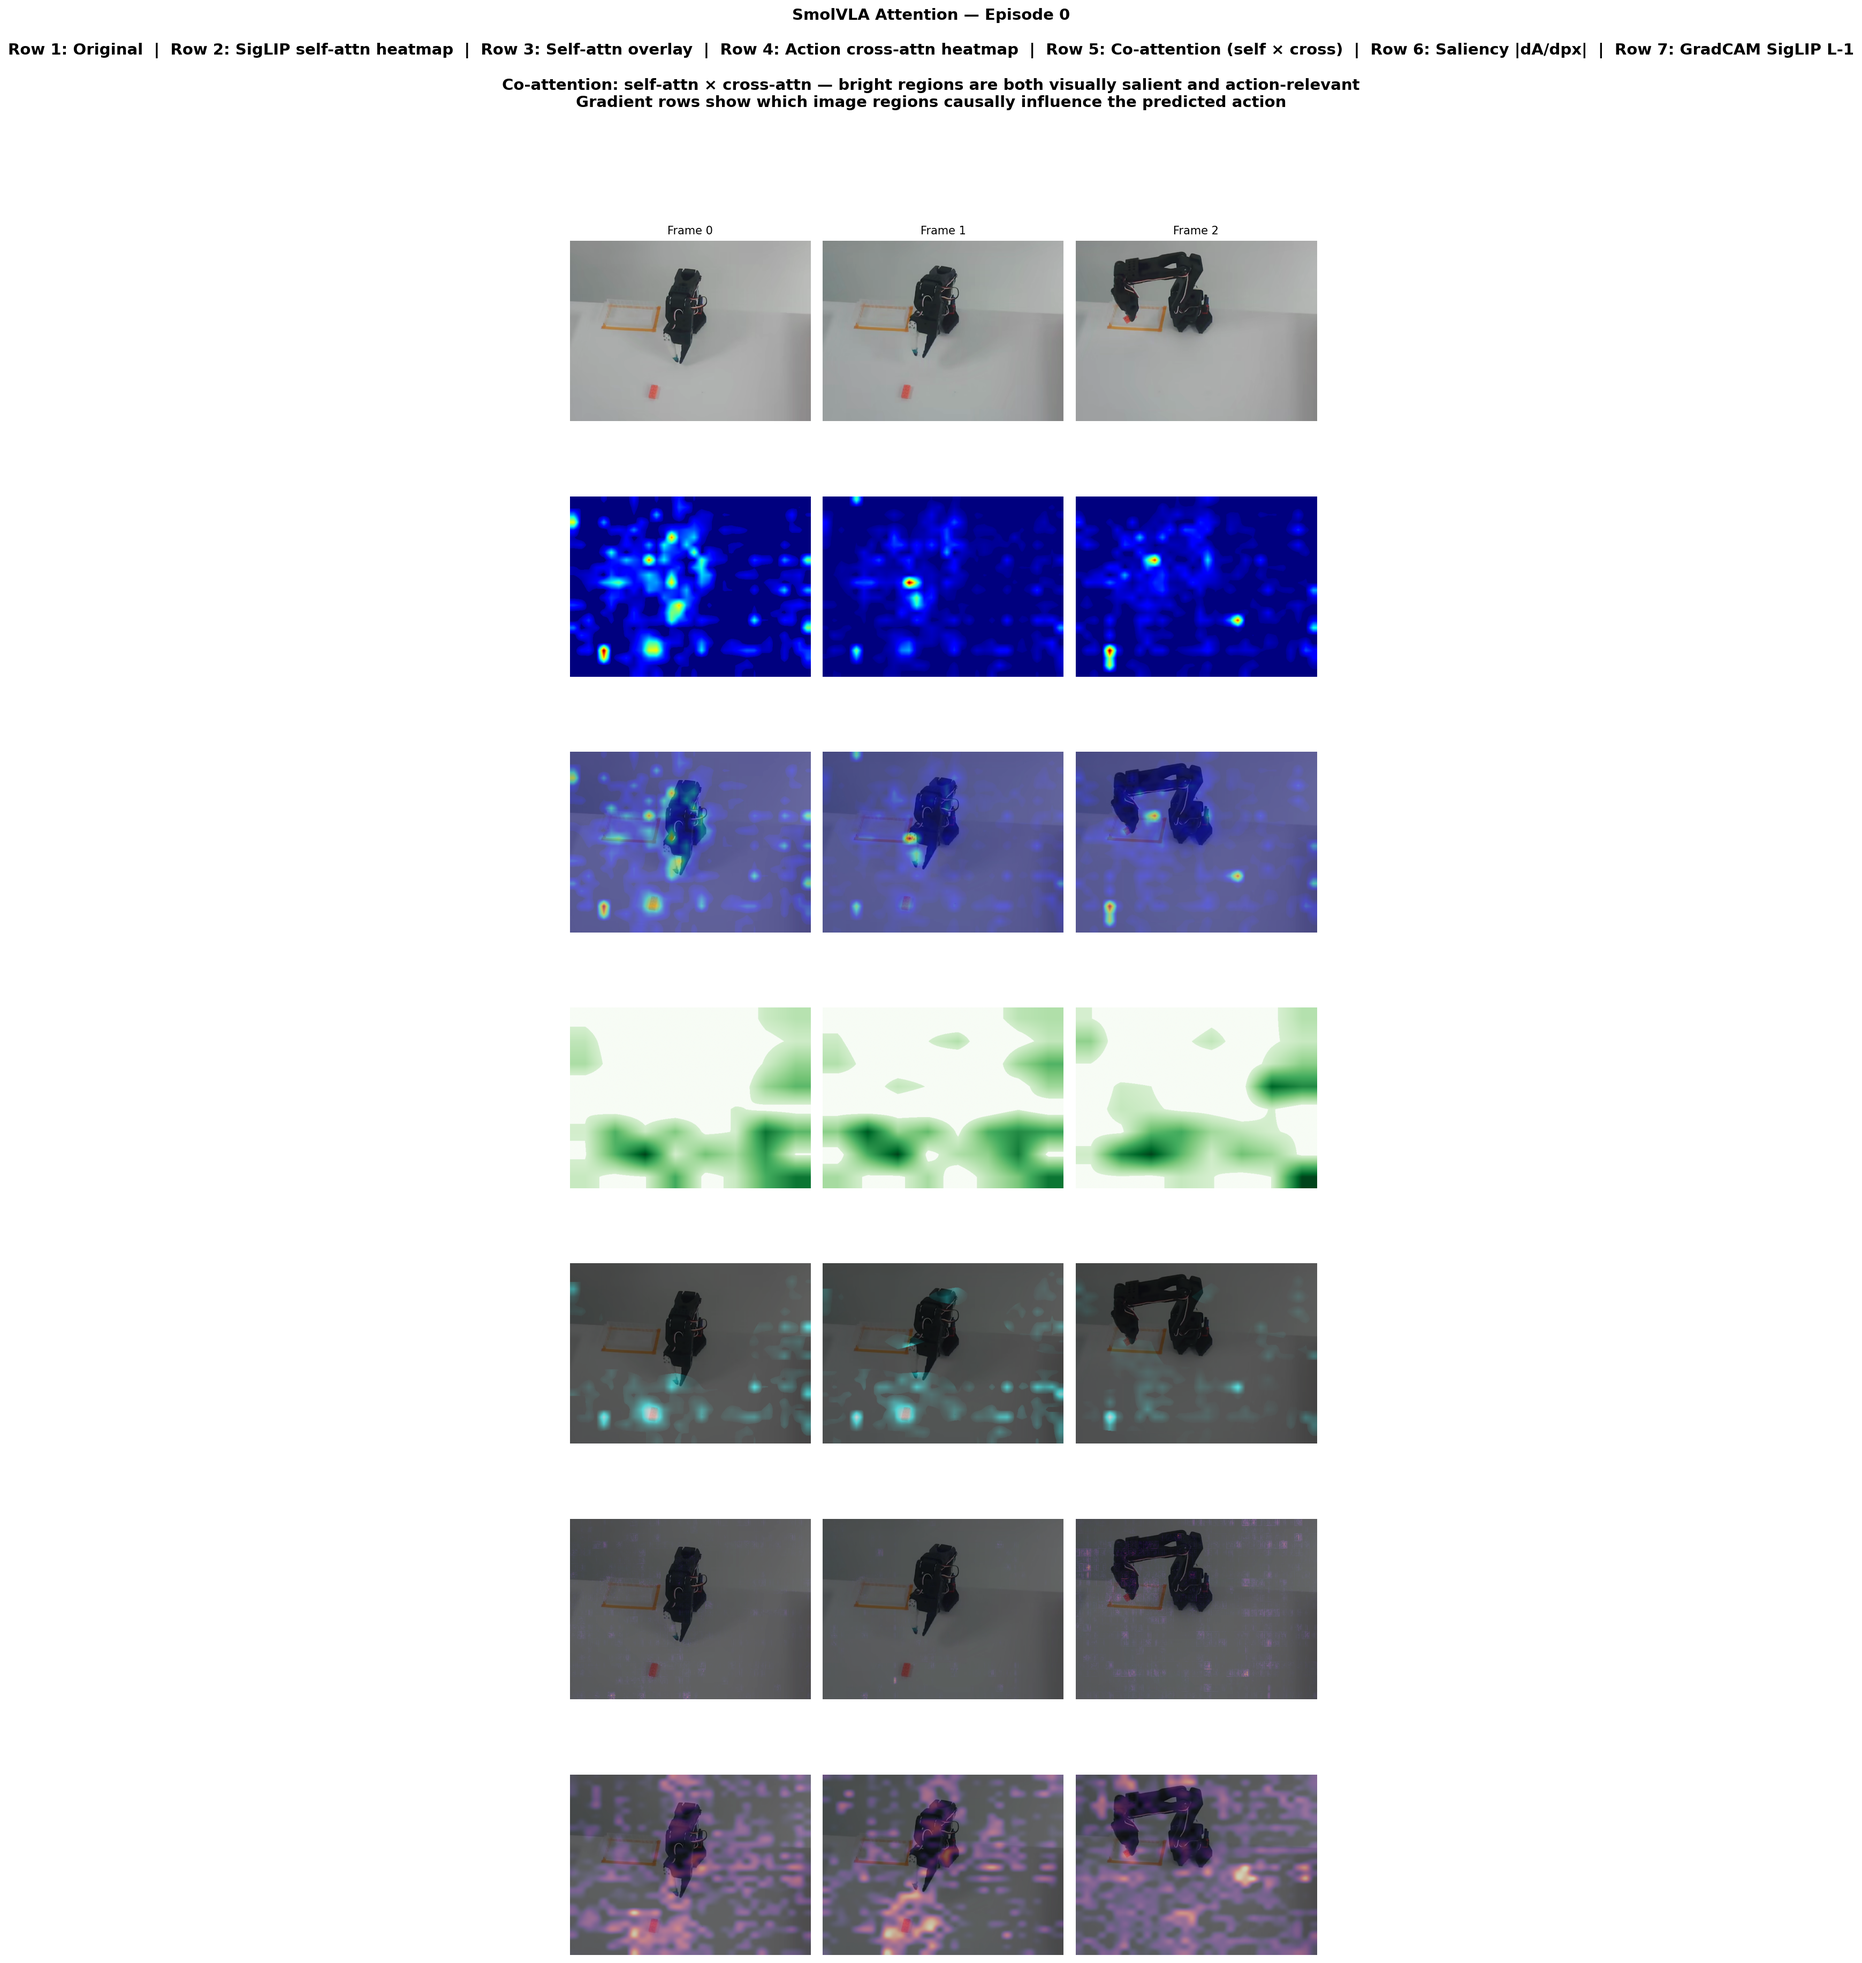
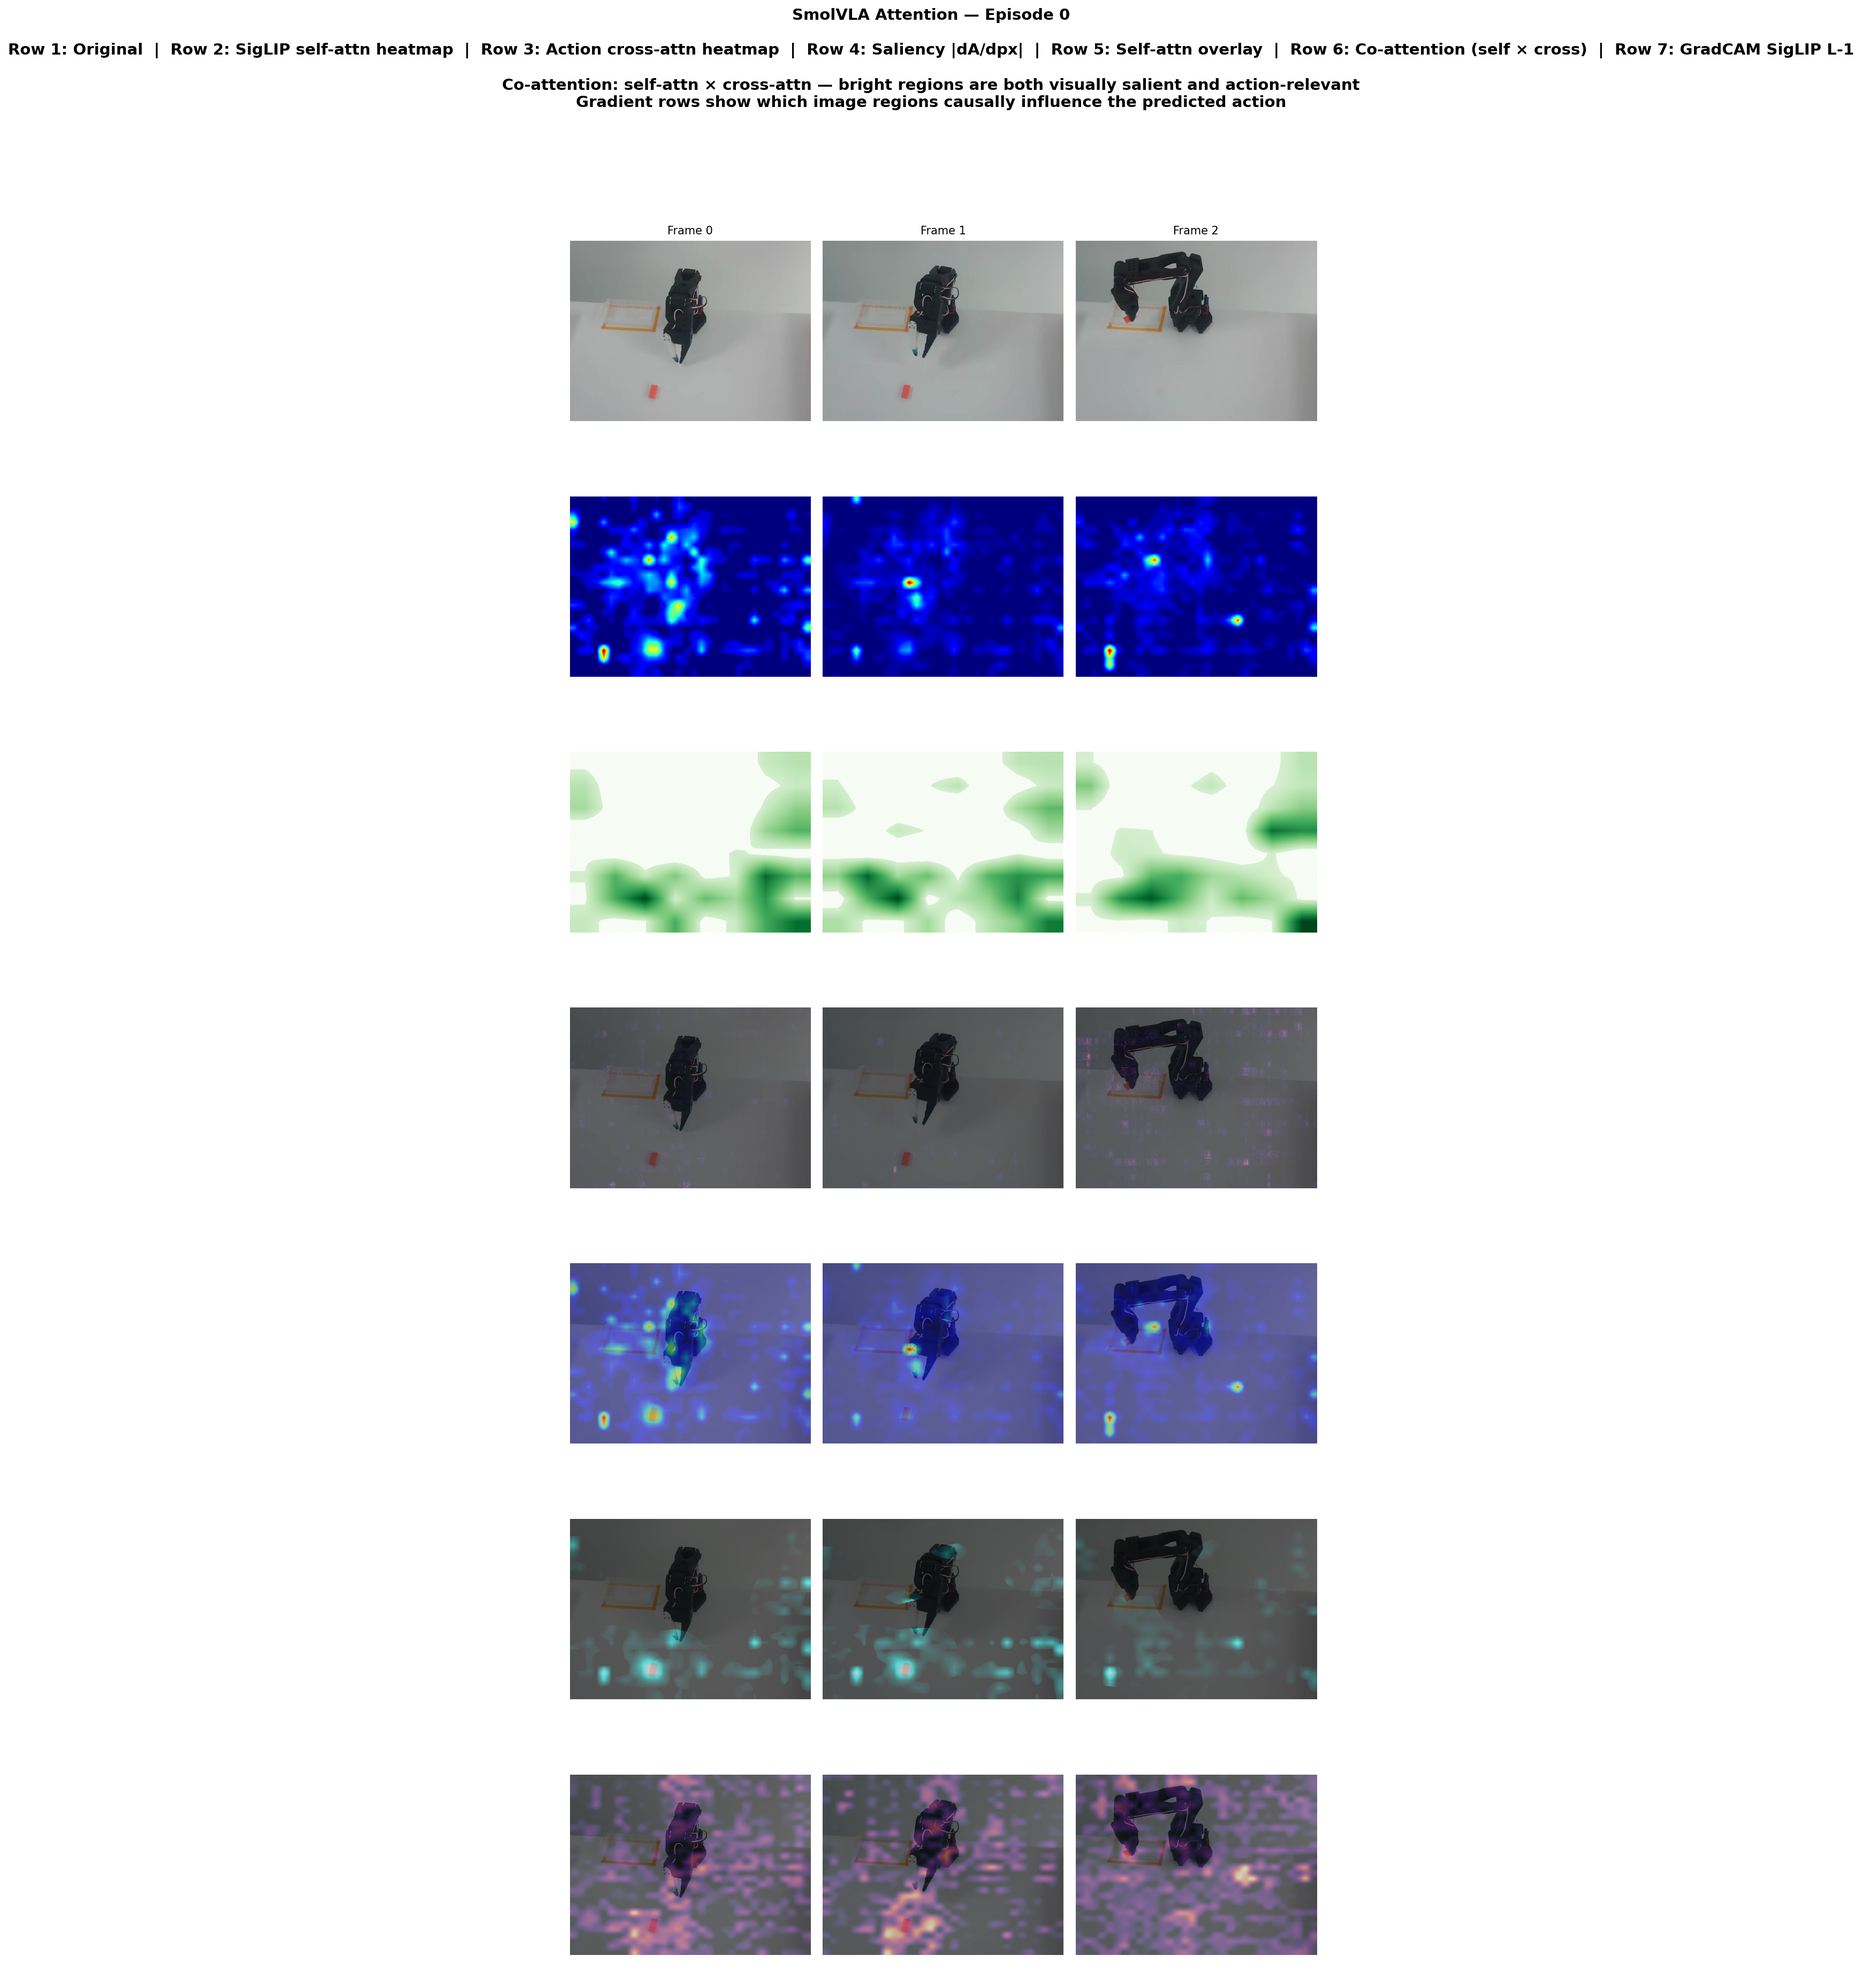
Rearrange grid: interpretable overlays at bottom, raw maps at top

diff --git a/smolvla_inspect/viz.py b/smolvla_inspect/viz.py
@@ -111,7 +111,31 @@ def create_visualization_grid(frames, heatmaps, actions=None,
 
         row = 0
 
-        # Row 1: Original
+        # Precompute optional maps needed by multiple rows
+        cross_hm = None
+        co_overlay = None
+        if has_cross:
+            cross_hm = _resize_heatmap(cross_attn_heatmaps[i], h, w)
+            co_attn = heatmap_resized * cross_hm
+            co_attn = co_attn / (co_attn.max() + 1e-8)
+            co_overlay = frame_np.copy()
+            co_overlay = (0.5 * co_overlay.astype(np.float32)
+                          + 0.5 * _CYAN_CMAP(co_attn)[:, :, :3] * 255)
+            co_overlay = np.clip(co_overlay, 0, 255).astype(np.uint8)
+
+        sal_overlay = None
+        if has_saliency:
+            sal_hm = _resize_heatmap(saliency_maps[i], h, w)
+            sal_overlay = overlay_heatmap(frame_np, sal_hm, alpha=0.45, colormap="inferno")
+
+        gc_overlay = None
+        if has_gradcam:
+            gc_hm = _resize_heatmap(gradcam_maps[i], h, w)
+            gc_overlay = overlay_heatmap(frame_np, gc_hm, alpha=0.45, colormap="magma")
+
+        # --- Top rows: raw maps ---
+
+        # Original
         ax = fig.add_subplot(gs[row, i])
         ax.imshow(frame_np)
         ax.set_title(f"Frame {i}", fontsize=10)
@@ -120,7 +144,7 @@ def create_visualization_grid(frames, heatmaps, actions=None,
             ax.set_ylabel("Original", fontsize=11, rotation=0, labelpad=60, va="center")
         row += 1
 
-        # Row 2: Self-attention heatmap
+        # SigLIP self-attention heatmap
         ax = fig.add_subplot(gs[row, i])
         ax.imshow(heatmap_resized, cmap="jet", vmin=0, vmax=1)
         ax.axis("off")
@@ -128,7 +152,27 @@ def create_visualization_grid(frames, heatmaps, actions=None,
             ax.set_ylabel("SigLIP\nself-attn", fontsize=11, rotation=0, labelpad=60, va="center")
         row += 1
 
-        # Row 3: Self-attention overlay
+        if has_cross:
+            # Action cross-attention heatmap
+            ax = fig.add_subplot(gs[row, i])
+            ax.imshow(cross_hm, cmap="Greens", vmin=0, vmax=1)
+            ax.axis("off")
+            if i == 0:
+                ax.set_ylabel("Action\ncross-attn", fontsize=11, rotation=0, labelpad=60, va="center")
+            row += 1
+
+        if has_saliency:
+            # Saliency overlay
+            ax = fig.add_subplot(gs[row, i])
+            ax.imshow(sal_overlay)
+            ax.axis("off")
+            if i == 0:
+                ax.set_ylabel("Saliency\n|dA/dpx|", fontsize=11, rotation=0, labelpad=60, va="center")
+            row += 1
+
+        # --- Bottom rows: interpretable overlays (most important) ---
+
+        # Self-attention overlay
         ax = fig.add_subplot(gs[row, i])
         ax.imshow(overlay)
         ax.axis("off")
@@ -137,24 +181,7 @@ def create_visualization_grid(frames, heatmaps, actions=None,
         row += 1
 
         if has_cross:
-            cross_hm = _resize_heatmap(cross_attn_heatmaps[i], h, w)
-
-            # Cross-attention heatmap
-            ax = fig.add_subplot(gs[row, i])
-            ax.imshow(cross_hm, cmap="Greens", vmin=0, vmax=1)
-            ax.axis("off")
-            if i == 0:
-                ax.set_ylabel("Action\ncross-attn", fontsize=11, rotation=0, labelpad=60, va="center")
-            row += 1
-
             # Co-attention overlay (self-attn × cross-attn)
-            co_attn = heatmap_resized * cross_hm
-            co_attn = co_attn / (co_attn.max() + 1e-8)
-            co_overlay = frame_np.copy()
-            co_overlay = (0.5 * co_overlay.astype(np.float32)
-                          + 0.5 * _CYAN_CMAP(co_attn)[:, :, :3] * 255)
-            co_overlay = np.clip(co_overlay, 0, 255).astype(np.uint8)
-
             ax = fig.add_subplot(gs[row, i])
             ax.imshow(co_overlay)
             ax.axis("off")
@@ -162,21 +189,8 @@ def create_visualization_grid(frames, heatmaps, actions=None,
                 ax.set_ylabel("Co-attention\noverlay", fontsize=11, rotation=0, labelpad=60, va="center")
             row += 1
 
-        if has_saliency:
-            sal_hm = _resize_heatmap(saliency_maps[i], h, w)
-            sal_overlay = overlay_heatmap(frame_np, sal_hm, alpha=0.45, colormap="inferno")
-
-            ax = fig.add_subplot(gs[row, i])
-            ax.imshow(sal_overlay)
-            ax.axis("off")
-            if i == 0:
-                ax.set_ylabel("Saliency\n|dA/dpx|", fontsize=11, rotation=0, labelpad=60, va="center")
-            row += 1
-
         if has_gradcam:
-            gc_hm = _resize_heatmap(gradcam_maps[i], h, w)
-            gc_overlay = overlay_heatmap(frame_np, gc_hm, alpha=0.45, colormap="magma")
-
+            # GradCAM overlay (bottommost)
             ax = fig.add_subplot(gs[row, i])
             ax.imshow(gc_overlay)
             ax.axis("off")
@@ -188,13 +202,14 @@ def create_visualization_grid(frames, heatmaps, actions=None,
     legend_parts = [
         "Original",
         "SigLIP self-attn heatmap",
-        "Self-attn overlay",
     ]
     if has_cross:
         legend_parts.append("Action cross-attn heatmap")
-        legend_parts.append("Co-attention (self \u00d7 cross)")
     if has_saliency:
         legend_parts.append("Saliency |dA/dpx|")
+    legend_parts.append("Self-attn overlay")
+    if has_cross:
+        legend_parts.append("Co-attention (self \u00d7 cross)")
     if has_gradcam:
         legend_parts.append("GradCAM SigLIP L-1")
 

diff --git a/README.md b/README.md
@@ -3,7 +3,7 @@
 See what SmolVLA's vision encoder and action expert are looking at when the model predicts robot actions.
 
 ![Example attention grid](assets/example_grid.png)
-*7-row attention + gradient grid for a pick-and-place episode. Rows 1-3: original frames, SigLIP self-attention, self-attention overlay. Rows 4-5: action cross-attention, co-attention (self x cross). Rows 6-7: saliency (|dA/dpx|) and GradCAM — gradient-based attribution showing which image regions causally influence the predicted action.*
+*7-row grid for a pick-and-place episode. Top: original frames, raw heatmaps (self-attn, cross-attn, saliency). Bottom: interpretable overlays — self-attention overlay, co-attention (self x cross), and GradCAM showing which image regions causally drive the predicted action.*
 
 ---
 
@@ -76,8 +76,6 @@ For a detailed visual walkthrough of the architecture and how it maps to the rep
 
 5. **Turn attention into spatial heatmaps** -- patch-level importance scores are reshaped into a 2D grid, upsampled with bilinear interpolation to image size, and normalized to [0, 1]. A percentile threshold (`--attn-threshold`, default 0.5) then zeros out low-attention values to suppress residual positional noise from SigLIP's learned position embeddings, and re-normalizes the remainder.
 
-   ![Positional baseline](assets/example_positional_baseline.png)
-   *Positional baseline diagnostic: attention pattern from a content-free gray image, showing position-dependent artifacts that get subtracted from real frames.*
 
 6. **Visualize** -- the output grid has up to 7 rows per frame:
 
@@ -85,13 +83,13 @@ For a detailed visual walkthrough of the architecture and how it maps to the rep
 |-----|---------|----------|------------|
 | 1 | Original frame | -- | always |
 | 2 | SigLIP self-attention heatmap | jet (blue-to-red) | always |
-| 3 | Self-attention overlay on frame | jet | always |
-| 4 | Action cross-attention heatmap | Greens | `--cross-attention` |
-| 5 | Co-attention overlay (self x cross) | cyan (black-cyan-white) | `--cross-attention` |
-| 6 | Saliency overlay (\|dA/dpx\|) | inferno | `--gradient saliency` or `both` |
+| 3 | Action cross-attention heatmap | Greens | `--cross-attention` |
+| 4 | Saliency overlay (\|dA/dpx\|) | inferno | `--gradient saliency` or `both` |
+| 5 | Self-attention overlay on frame | jet | always |
+| 6 | Co-attention overlay (self x cross) | cyan (black-cyan-white) | `--cross-attention` |
 | 7 | GradCAM overlay (SigLIP last layer) | magma | `--gradient gradcam` or `both` |
 
-Rows 4-5 only appear when cross-attention is enabled. The co-attention overlay multiplies self-attention and cross-attention element-wise, highlighting regions that are **both** visually salient and action-relevant. Rows 6-7 only appear when gradient attribution is enabled.
+Raw heatmaps are at the top (rows 1-4), interpretable overlays at the bottom (rows 5-7). The bottom three rows are the most useful: self-attention overlay shows where the encoder focuses, co-attention shows where encoder and action decoder agree, and GradCAM shows which regions causally drive the predicted action.
 
 ### Per-head grid
 
@@ -278,8 +276,9 @@ The cyan overlay highlights regions where **both** the vision encoder and the ac
 |-----|------|---------------------|------------|----------------------------|
 | SigLIP self-attn | Vision encoder attention | Which patches attend to each other inside the encoder? | 32x32 patches | Encoder's internal processing focus -- structural, not necessarily action-relevant |
 | Action cross-attn | Action-to-vision cross-attention | Which vision tokens does the action decoder query? | 8x8 tokens (post pixel-shuffle) | Visual regions the action decoder pulls information from |
-| Co-attention | Self x cross product | Which regions are both visually salient and action-queried? | 8x8 upsampled | Strongest attention signal for "what the model looks at to decide what to do" |
 | Saliency \|dA/dpx\| | Input-gradient saliency | If I changed this pixel, would the action change? | Full pixel (480x640) | Pixels that causally influence the predicted action -- fine-grained but noisy |
+| Self-attn overlay | Self-attention on frame | Where does the encoder focus, overlaid on the image? | 32x32 upsampled | Visual check of encoder focus against actual scene content |
+| Co-attention | Self x cross product | Which regions are both visually salient and action-queried? | 8x8 upsampled | Strongest attention signal for "what the model looks at to decide what to do" |
 | GradCAM SigLIP L-1 | Gradient-weighted activations | Which learned feature regions drive the action? | 32x32 patches | Patch regions whose features most influence the action -- coarser but more semantic |
 
 **Attention vs gradient:**
